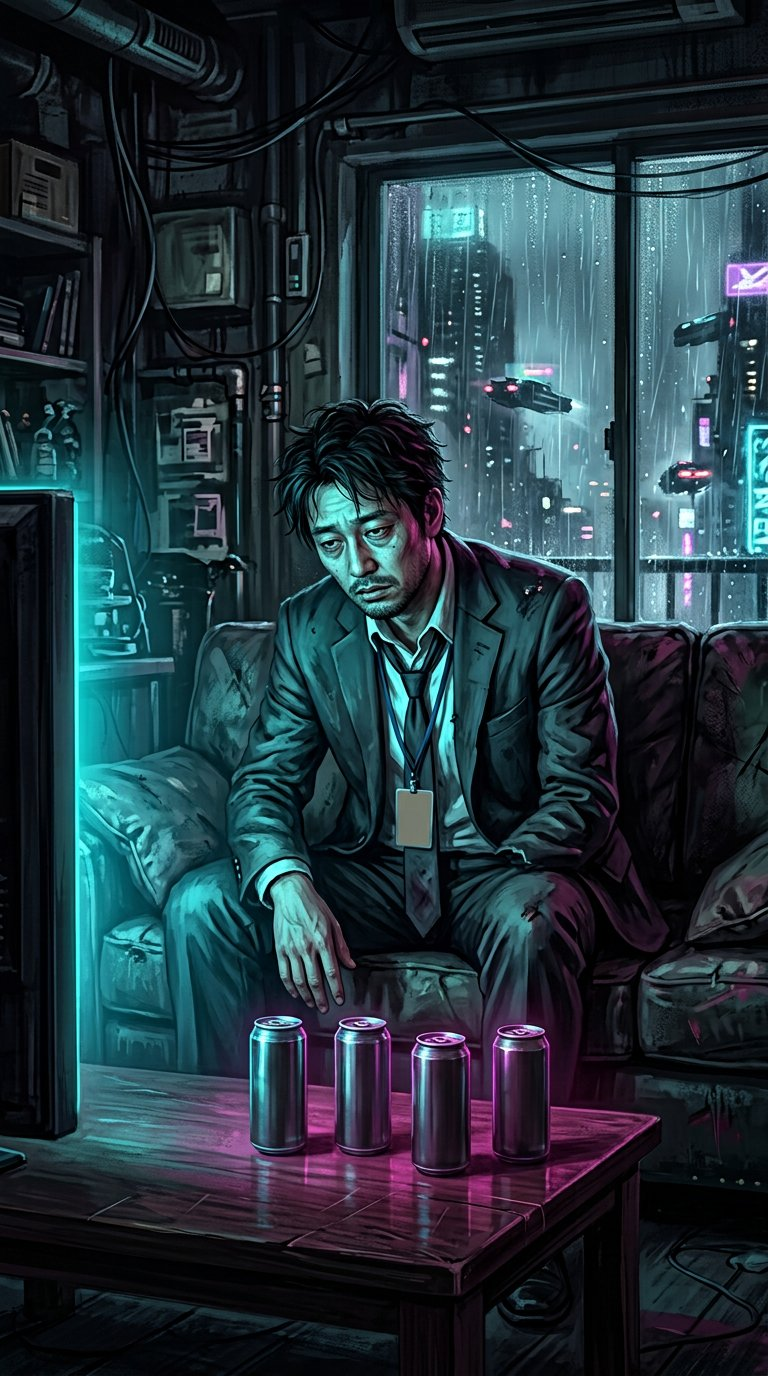
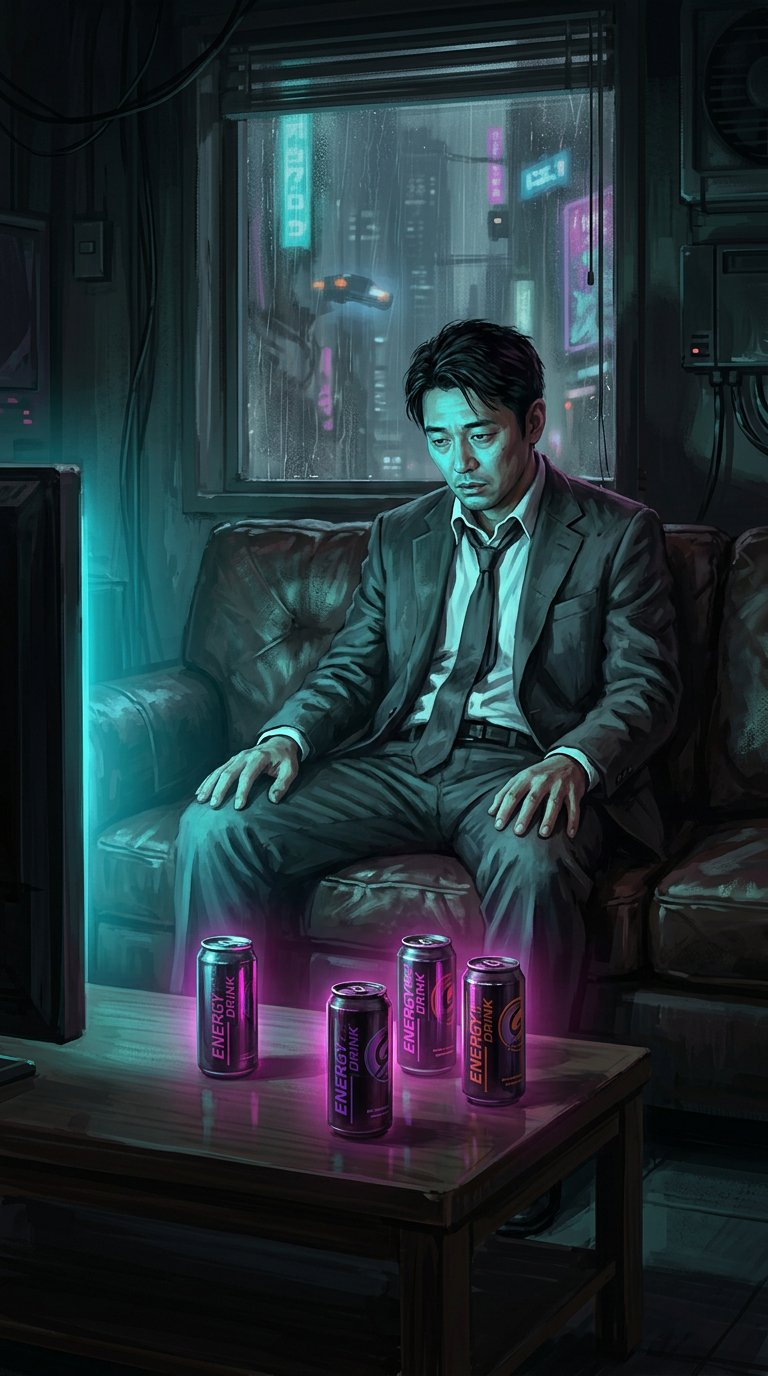
Королева Мечей в стиле Короля, Тройка/Четвёрка/Шестёрка/Восьмёрка Банок по реворку; Банки 10–14 — масть завершена

diff --git a/src/data/cards.ts b/src/data/cards.ts
@@ -104,6 +104,11 @@ const MINOR_IMAGE: Record<string, string> = {
   'banks-7': 'cards/minor/banks-7.jpg',
   'banks-8': 'cards/minor/banks-8.jpg',
   'banks-9': 'cards/minor/banks-9.jpg',
+  'banks-10': 'cards/minor/banks-10.jpg',
+  'banks-11': 'cards/minor/banks-11.jpg',
+  'banks-12': 'cards/minor/banks-12.jpg',
+  'banks-13': 'cards/minor/banks-13.jpg',
+  'banks-14': 'cards/minor/banks-14.jpg',
   'wires-1': 'cards/minor/wires-1.jpg',
   'nuyen-1': 'cards/minor/nuyen-1.jpg',
 };
